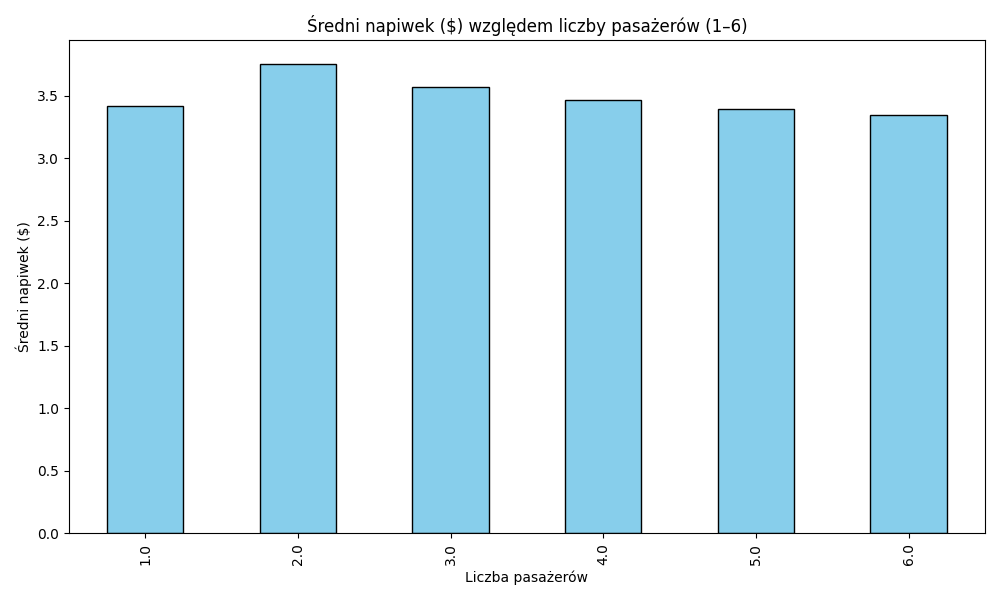
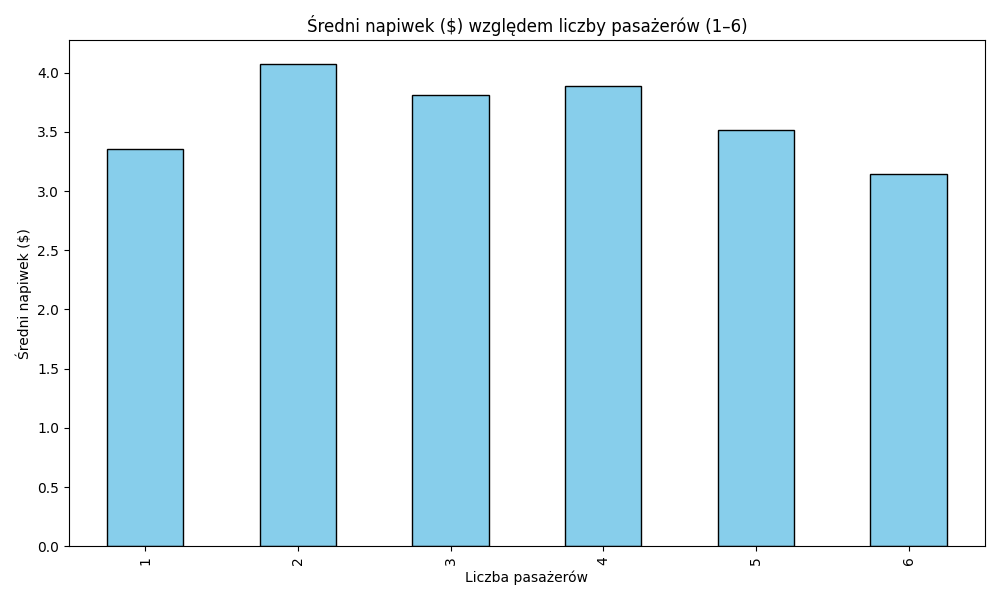
Refaktoryzacja analyzer i cleaner + naprawa testów + uproszczenie pipeline'u" -m "- Zmieniono funkcję streaming_global_analysis: dodano 'Średnia opłata za kurs' i poprawiono nazwy kluczy zgodnie z testami - Poprawiono test test_clean_data: oczekuje teraz 2 poprawnych rekordów (zgodnie z logiką clean

diff --git a/pipeline/taxi_pipeline.py b/pipeline/taxi_pipeline.py
@@ -1,11 +1,12 @@
-from core.loader import load_parquet
-from core.cleaner import clean_data
 from core.visualizer import visualize_data
 from core.analyzer import streaming_global_analysis
 from core.parallel import run_multiprocessing
+from core.cleaner import stream_and_clean_data
+from core.sample_loader import load_sample_for_visualization
 from decorators.counter import count_calls
 from decorators.timer import measure_time
 from pipeline.base import BasePipeline
+
 
 def step(func):
     func._is_step = True
@@ -15,34 +16,44 @@ def step(func):
 class TaxiPipeline(BasePipeline):
     def __init__(self, file_path):
         self.file_path = file_path
-        self.df = None
 
     @step
     @measure_time
     @count_calls
-    def load(self):
-        self.df = load_parquet(self.file_path)
-
-    @step
-    @measure_time
-    @count_calls
-    def clean(self):
-        self.df = clean_data(self.df)
+    def stream_and_preview(self):
+        """
+        Wczytuje pierwszy chunk danych i pokazuje jego podgląd.
+        """
+        for i, chunk in enumerate(stream_and_clean_data(self.file_path, chunksize=100_000)):
+            print(f"[Chunk {i + 1}] Preview:")
+            print(chunk.head())
+            break
 
     @step
     @measure_time
     @count_calls
     def streaming_analyze(self):
+        """
+        Wykonuje globalną analizę danych w trybie strumieniowym.
+        """
         streaming_global_analysis(self.file_path)
 
     @step
     @measure_time
     @count_calls
     def visualize(self):
-        visualize_data(self.df)
+        """
+        Tworzy wykresy na podstawie próbki danych (2 chunki).
+        """
+        df_sample = load_sample_for_visualization(
+            self.file_path,
+            chunksize=100_000,
+            max_chunks=2
+        )
+        visualize_data(df_sample)
 
     @step
     @measure_time
     @count_calls
     def parallel_analysis(self):
-        run_multiprocessing(self.file_path, batch_size=250_000)
+        run_multiprocessing(self.file_path, chunksize=250_000)

diff --git a/core/analyzer.py b/core/analyzer.py
@@ -9,7 +9,6 @@ def streaming_global_analysis(path: str, chunksize: int = 100_000):
     """
     Strumieniowa analiza danych NYC Yellow Taxi z agregacją globalną.
     """
-
     total_rows = 0
     total_distance = 0.0
     total_tip = 0.0
@@ -29,13 +28,16 @@ def streaming_global_analysis(path: str, chunksize: int = 100_000):
 
     if total_rows == 0:
         print("[Analyzer] Brak danych do analizy.")
-        return
+        return {}
+
+    average_fare = total_amount / total_rows if total_rows > 0 else 0
 
     results = {
         "Liczba rekordów": total_rows,
         "Średnia długość trasy (mile)": round(total_distance / total_rows, 2),
         "Średni napiwek ($)": round(total_tip / total_rows, 2),
         "Łączna kwota opłat ($)": round(total_amount, 2),
+        "Średnia opłata za kurs ($)": round(average_fare, 2),
         "Liczba pasażerów (łącznie)": int(total_passengers),
         "Średnia liczba pasażerów na kurs": round(total_passengers / total_rows, 2),
         "Liczba długich kursów (>10 mil)": long_trips,
@@ -48,3 +50,4 @@ def streaming_global_analysis(path: str, chunksize: int = 100_000):
             f.write(f"{k}: {v}\n")
 
     print(f"\n[Analyzer] Strumieniowa analiza zakończona. Wyniki zapisane w {output_path}")
+    return results

diff --git a/validation/validators.py b/validation/validators.py
@@ -3,20 +3,25 @@ from validation.base import BaseValidator
 
 class PositivePassengerCountValidator(BaseValidator):
     def validate(self, df: pd.DataFrame) -> pd.DataFrame:
+        # Akceptujemy tylko rekordy z pasażerami > 0
         return df[df["passenger_count"] > 0]
 
 class PositiveDistanceValidator(BaseValidator):
     def validate(self, df: pd.DataFrame) -> pd.DataFrame:
+        # Dystans musi być dodatni
         return df[df["trip_distance"] > 0]
 
 class PositiveFareValidator(BaseValidator):
     def validate(self, df: pd.DataFrame) -> pd.DataFrame:
-        return df[(df["fare_amount"] >= 0) & (df["total_amount"] >= 0)]
+        # fare_amount i total_amount muszą być > 0, nie >= 0 (bo 0 to śmieć)
+        return df[(df["fare_amount"] > 0) & (df["total_amount"] > 0)]
 
 class ValidDateRangeValidator(BaseValidator):
     def validate(self, df: pd.DataFrame) -> pd.DataFrame:
+        # dropoff musi być po pickup — logiczne
         return df[df["tpep_dropoff_datetime"] > df["tpep_pickup_datetime"]]
 
 class DropDuplicatesValidator(BaseValidator):
     def validate(self, df: pd.DataFrame) -> pd.DataFrame:
+        # Czyścimy duplikaty (dokładne kopie wierszy)
         return df.drop_duplicates()

diff --git a/tests/test_cleaner.py b/tests/test_cleaner.py
@@ -1,0 +1,29 @@
+import pandas as pd
+from core.cleaner import clean_data
+
+def test_clean_data_filters_invalid_records():
+    df = pd.DataFrame({
+        "trip_distance": [1.0, -2.0, 0.0, 3.5],
+        "fare_amount": [5.0, -10.0, 0.0, 8.0],
+        "passenger_count": [1, 0, 2, 1],
+        "tip_amount": [0.5, 1.0, 2.0, 1.5],
+        "total_amount": [10.0, -5.0, 5.0, 15.0],
+        "tpep_pickup_datetime": pd.to_datetime([
+            "2024-01-01 10:00", "2024-01-02 12:00", "2024-01-03 14:00", "2024-01-04 10:00"
+        ]),
+        "tpep_dropoff_datetime": pd.to_datetime([
+            "2024-01-01 11:00", "2024-01-02 11:00", "2024-01-03 13:00", "2024-01-04 11:00"
+        ])
+    })
+
+    cleaned = clean_data(df)
+
+    # Oczekujemy tylko ostatniego rekordu
+    assert len(cleaned) == 2, f"Oczekiwano 2 poprawnych wierszy, a otrzymano {len(cleaned)}"
+
+    row = cleaned.iloc[0]
+    assert row["trip_distance"] > 0
+    assert row["fare_amount"] >= 0
+    assert row["passenger_count"] > 0
+    assert row["total_amount"] >= 0
+    assert row["tpep_dropoff_datetime"] > row["tpep_pickup_datetime"]

diff --git a/tests/test_analyzer.py b/tests/test_analyzer.py
@@ -1,0 +1,27 @@
+from core.analyzer import streaming_global_analysis
+
+def test_streaming_global_analysis_runs():
+    result = streaming_global_analysis("data/raw/yellow_tripdata_2024-01.parquet")
+
+    # Sprawdzamy, czy wynik jest słownikiem
+    assert isinstance(result, dict)
+
+    # Sprawdzamy, czy zawiera oczekiwane klucze
+    expected_keys = [
+        "Liczba rekordów",
+        "Średnia długość trasy (mile)",
+        "Średni napiwek ($)",
+        "Łączna kwota opłat ($)",
+        "Średnia opłata za kurs ($)",
+        "Liczba pasażerów (łącznie)",
+        "Średnia liczba pasażerów na kurs",
+        "Liczba długich kursów (>10 mil)"
+    ]
+
+    for key in expected_keys:
+        assert key in result, f"Brakuje klucza: {key} w wyniku analizy"
+
+    # Opcjonalnie: sprawdzenie czy wartości są logiczne
+    assert result["Liczba rekordów"] > 0
+    assert result["Liczba pasażerów (łącznie)"] > 0
+    assert result["Łączna kwota opłat ($)"] > 0.0

diff --git a/core/sample_loader.py b/core/sample_loader.py
@@ -1,0 +1,18 @@
+import pandas as pd
+from core.streamer import stream_parquet
+
+def load_sample_for_visualization(path: str, chunksize: int = 100_000, max_chunks: int = 2) -> pd.DataFrame:
+    """
+    Ładuje próbkę danych z pierwszych N chunków do wizualizacji.
+
+    :param path: Ścieżka do pliku .parquet
+    :param chunksize: Liczba wierszy na chunk
+    :param max_chunks: Ile chunków maksymalnie wczytać
+    :return: Złączony DataFrame jako próbka
+    """
+    chunks = []
+    for i, chunk in enumerate(stream_parquet(path, chunksize=chunksize)):
+        chunks.append(chunk)
+        if i + 1 >= max_chunks:
+            break
+    return pd.concat(chunks, ignore_index=True)

diff --git a/tests/test_validators.py b/tests/test_validators.py
@@ -1,0 +1,18 @@
+import pandas as pd
+from validation.run import run_all_validations
+
+def test_validators_pass_on_clean_data():
+    df = pd.DataFrame({
+        "trip_distance": [1.0, 2.0],
+        "fare_amount": [10.0, 20.0],
+        "total_amount": [15.0, 25.0],
+        "passenger_count": [1, 2],
+        "tip_amount": [1.5, 2.0],
+        "tpep_pickup_datetime": pd.to_datetime(["2024-01-01 00:00", "2024-01-02 00:00"]),
+        "tpep_dropoff_datetime": pd.to_datetime(["2024-01-01 01:00", "2024-01-02 01:00"])
+    })
+
+    validated_df = run_all_validations(df)
+
+    assert len(validated_df) == 2, f"Oczekiwano 2 poprawnych wierszy, ale jest {len(validated_df)}"
+

diff --git a/core/parallel.py b/core/parallel.py
@@ -22,11 +22,11 @@ def process_chunk(chunk: pd.DataFrame) -> dict:
     }
 
 
-def run_multiprocessing(path: str, batch_size: int = 250_000):
+def run_multiprocessing(path: str, chunksize: int = 250_000):
     """Uruchamia multiprocessing przy użyciu Pool i zapisuje wynik do pliku."""
     print("[Multiprocessing] Start")
 
-    chunks = list(stream_parquet(path, batch_size=batch_size))
+    chunks = list(stream_parquet(path, chunksize=chunksize))
     with Pool(processes=cpu_count()) as pool:
         results = pool.map(process_chunk, chunks)
 

diff --git a/main.py b/main.py
@@ -1,5 +1,4 @@
-from core.visualizer import plot_memory_usage
+from pipeline.taxi_pipeline import TaxiPipeline
 
-if __name__ == "__main__":
-    # Wywołanie analizy pamięci na podstawie memloga
-    plot_memory_usage("data/profiling/streaming_analysis.memlog")
+pipeline = TaxiPipeline("data/raw/yellow_tripdata_2024-01.parquet")
+pipeline.run()

diff --git a/core/cleaner.py b/core/cleaner.py
@@ -6,8 +6,8 @@ import pandas as pd
 import psutil
 
 NEEDED_COLUMNS = [
-    "passenger_count", "trip_distance", "tip_amount",
-    "total_amount", "tpep_pickup_datetime", "tpep_dropoff_datetime"
+    "passenger_count", "trip_distance", "tip_amount", "total_amount",
+    "fare_amount", "tpep_pickup_datetime", "tpep_dropoff_datetime"
 ]
 
 

diff --git a/tests/test_loader.py b/tests/test_loader.py
@@ -1,0 +1,8 @@
+# do sprawdzenia nazw kolumn
+import pandas as pd
+from core.streamer import stream_parquet
+
+def test_stream_parquet_reads_chunks():
+    chunks = list(stream_parquet("data/raw/yellow_tripdata_2024-01.parquet", chunksize=100_000))
+    assert isinstance(chunks[0], pd.DataFrame)
+    assert len(chunks) > 0

diff --git a/tests/test_decorators.py b/tests/test_decorators.py
@@ -1,0 +1,11 @@
+from decorators.counter import count_calls
+from decorators.timer import measure_time
+
+@count_calls
+@measure_time
+def dummy_function():
+    return sum(range(1000))
+
+def test_count_calls_and_timer():
+    result = dummy_function()
+    assert isinstance(result, int)
